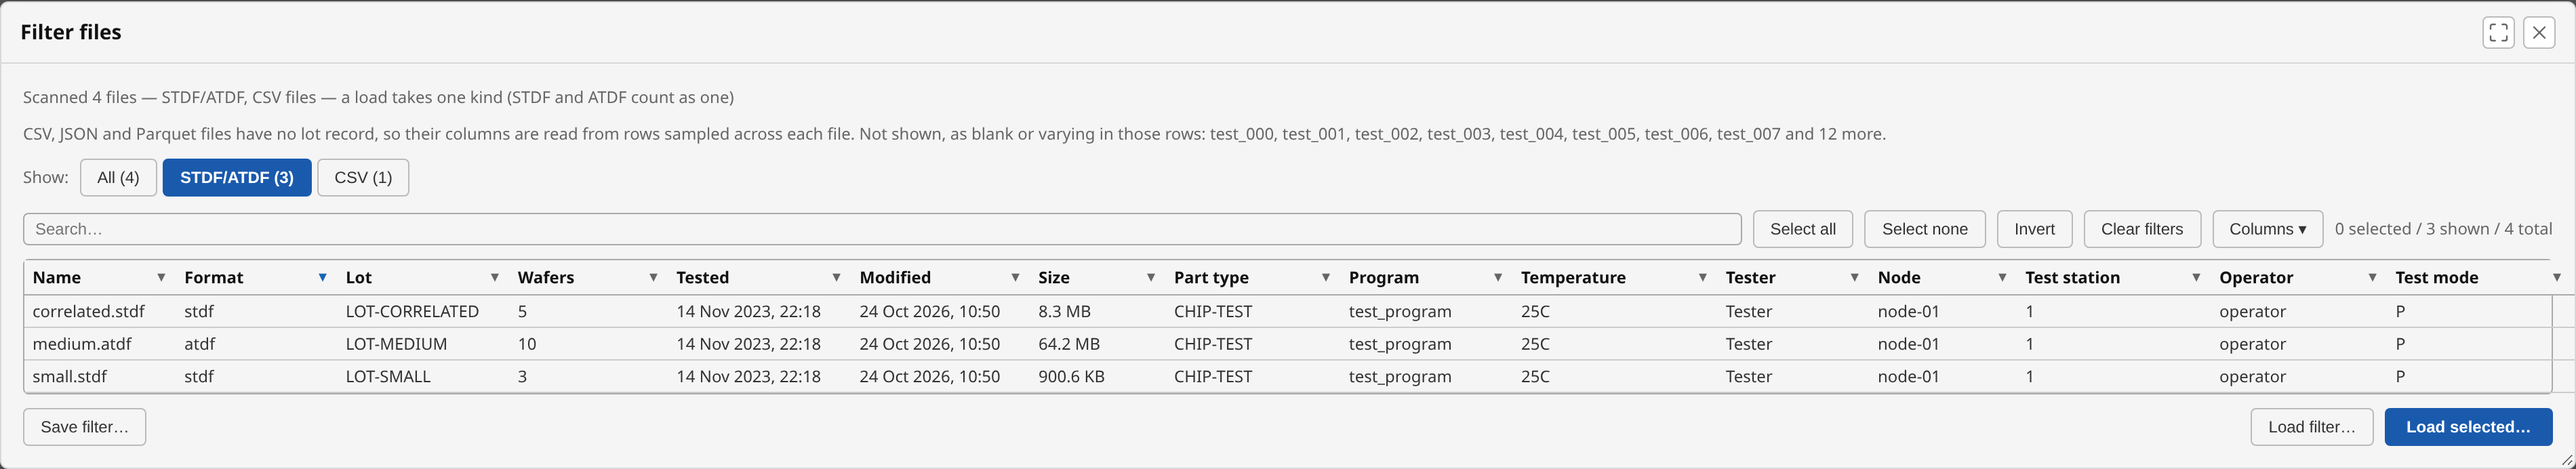
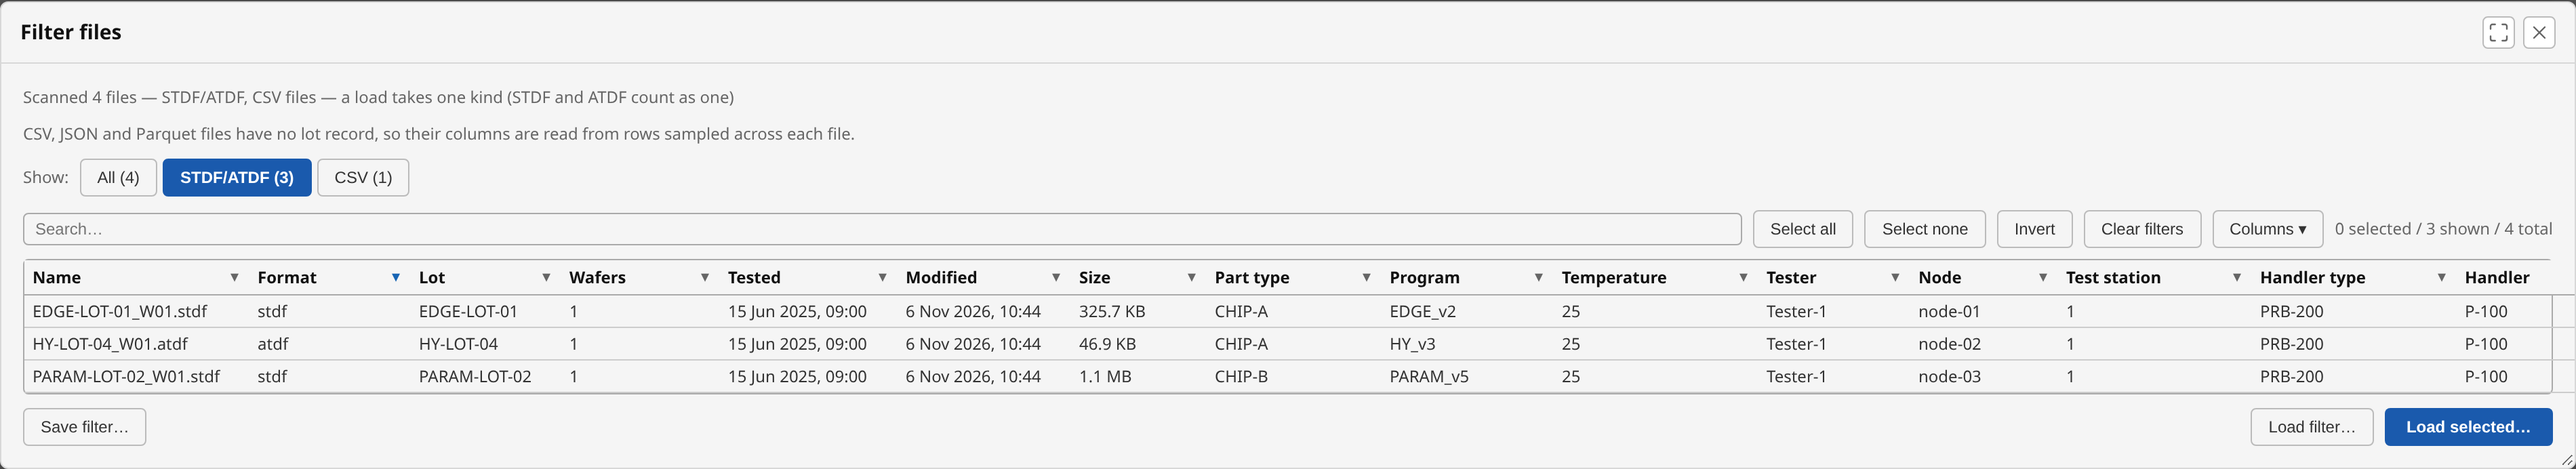
Recapture the guide images and correct the lesson 06 group-by wording
The guide images that show a lot's gallery, file filter, splits and plot examples are recaptured with the current app. Lesson 06 now says tester, program revision and burn-in each pick out a different set of wafers, and lesson 05 says a field can rank because it goes with a session that has an effect of its own.

diff --git a/docs/learn/06-insights-distributions.md b/docs/learn/06-insights-distributions.md
@@ -282,9 +282,15 @@ With Group by on, **Tests by wafer** becomes **Tests by split**: one column for 
 
 # Group by temperature
 
-Grouped by **Temperature**, the card compares the six wafers tested at 85 °C with the nineteen at 25 °C. At 85 °C leakage (`ioff_nA`) is high, while the thresholds and both `idsat_n_uA` and `fmax_MHz` are lower. Tester, program revision and burn-in time group the same way.
+Grouped by **Temperature**, the card compares the six wafers tested at 85 °C with the nineteen at 25 °C. At 85 °C leakage (`ioff_nA`) is high, while the thresholds and both `idsat_n_uA` and `fmax_MHz` are lower.
 
 ![Tests by temperature: the 85 group against the 25 group](images/06/tests-by-temperature.png)
+
+---
+
+# Other fields
+
+Tester, program revision and burn-in time each pick out a different set of wafers. Group by each in turn to see which tests it moves.
 
 ---
 

diff --git a/docs/learn/05-insights-yield.md b/docs/learn/05-insights-yield.md
@@ -281,6 +281,8 @@ Yield differs between wafers. This card checks whether it differs along a line y
 
 Wafers differ in several fields at once, and a strong one can hide another. So each field is read after taking out the strongest other field. A row that says **allowing for Split** shows what is left once the split's effect is removed. Its **Spread** is still the plain difference between the groups.
 
+A field can also rank because it goes with a group that has an effect of its own. In this lot the operator follows the sessions, so its row shows what the sessions did, not what the operator did. Read a row as where to look, not as a cause.
+
 ---
 
 <!-- covers: Part average testing (PAT); Show all 25 wafers; chart › Part average testing (PAT); glossary › Part average testing (PAT) -->
